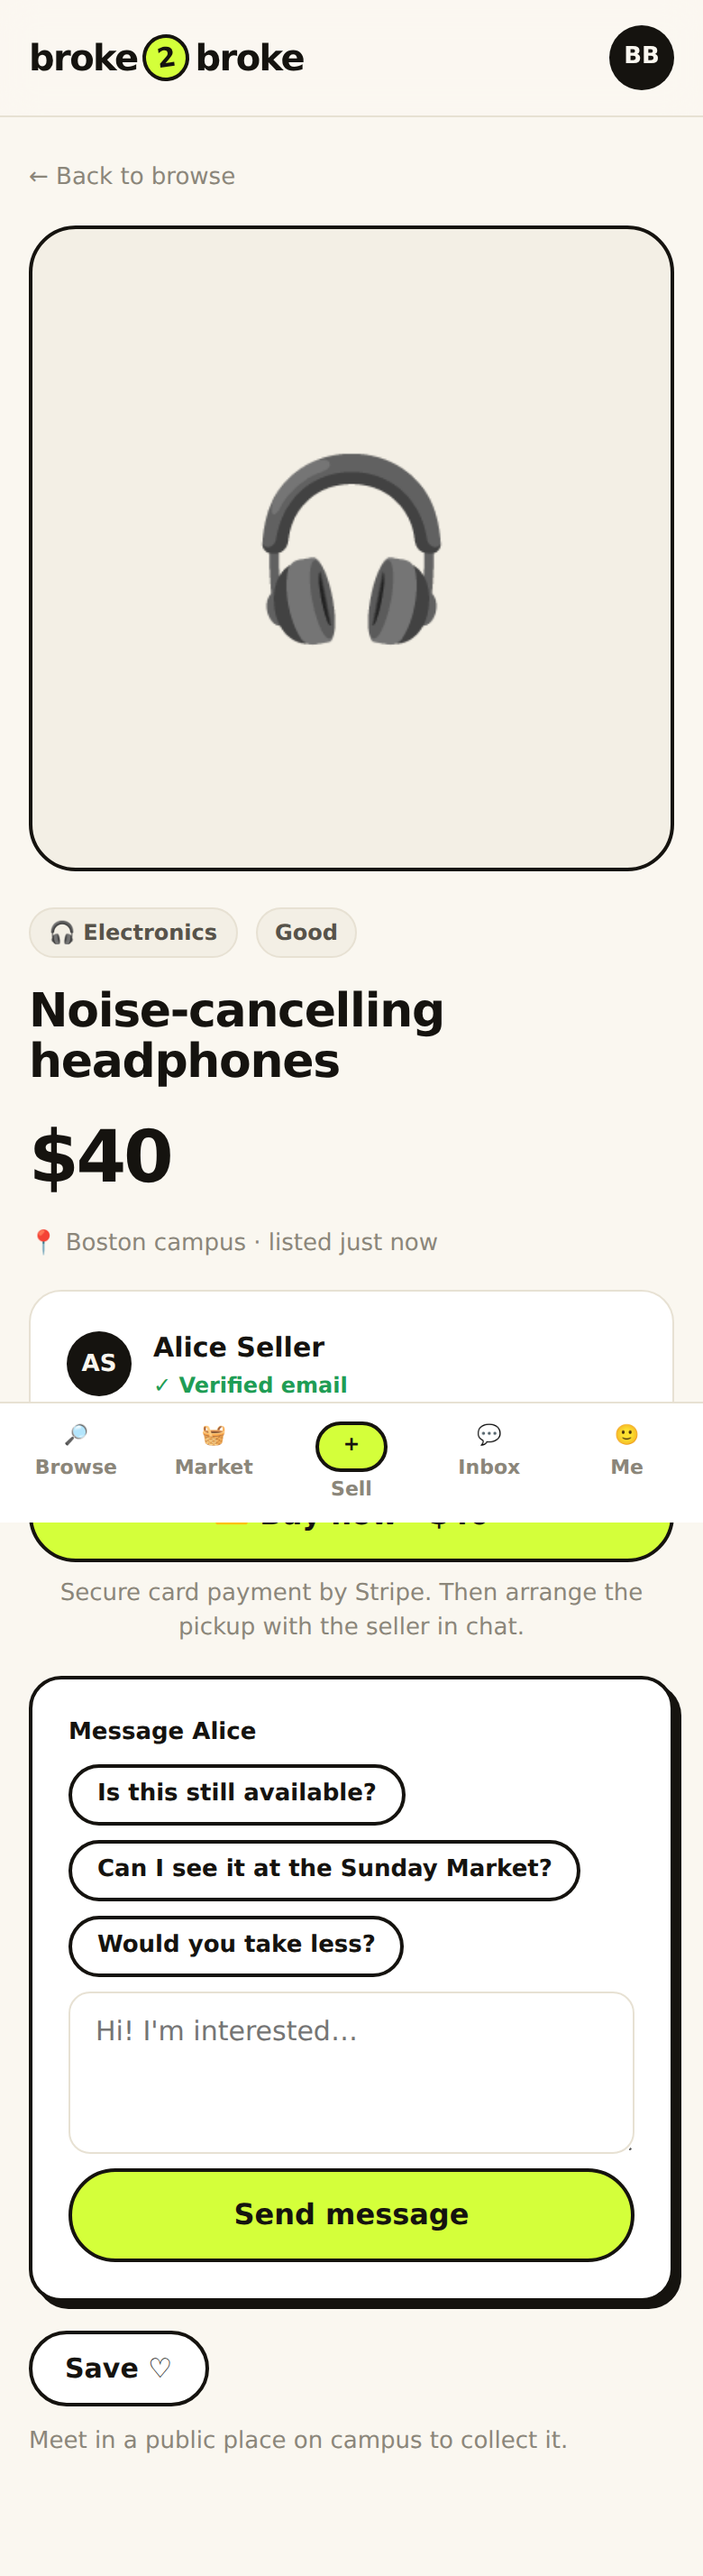
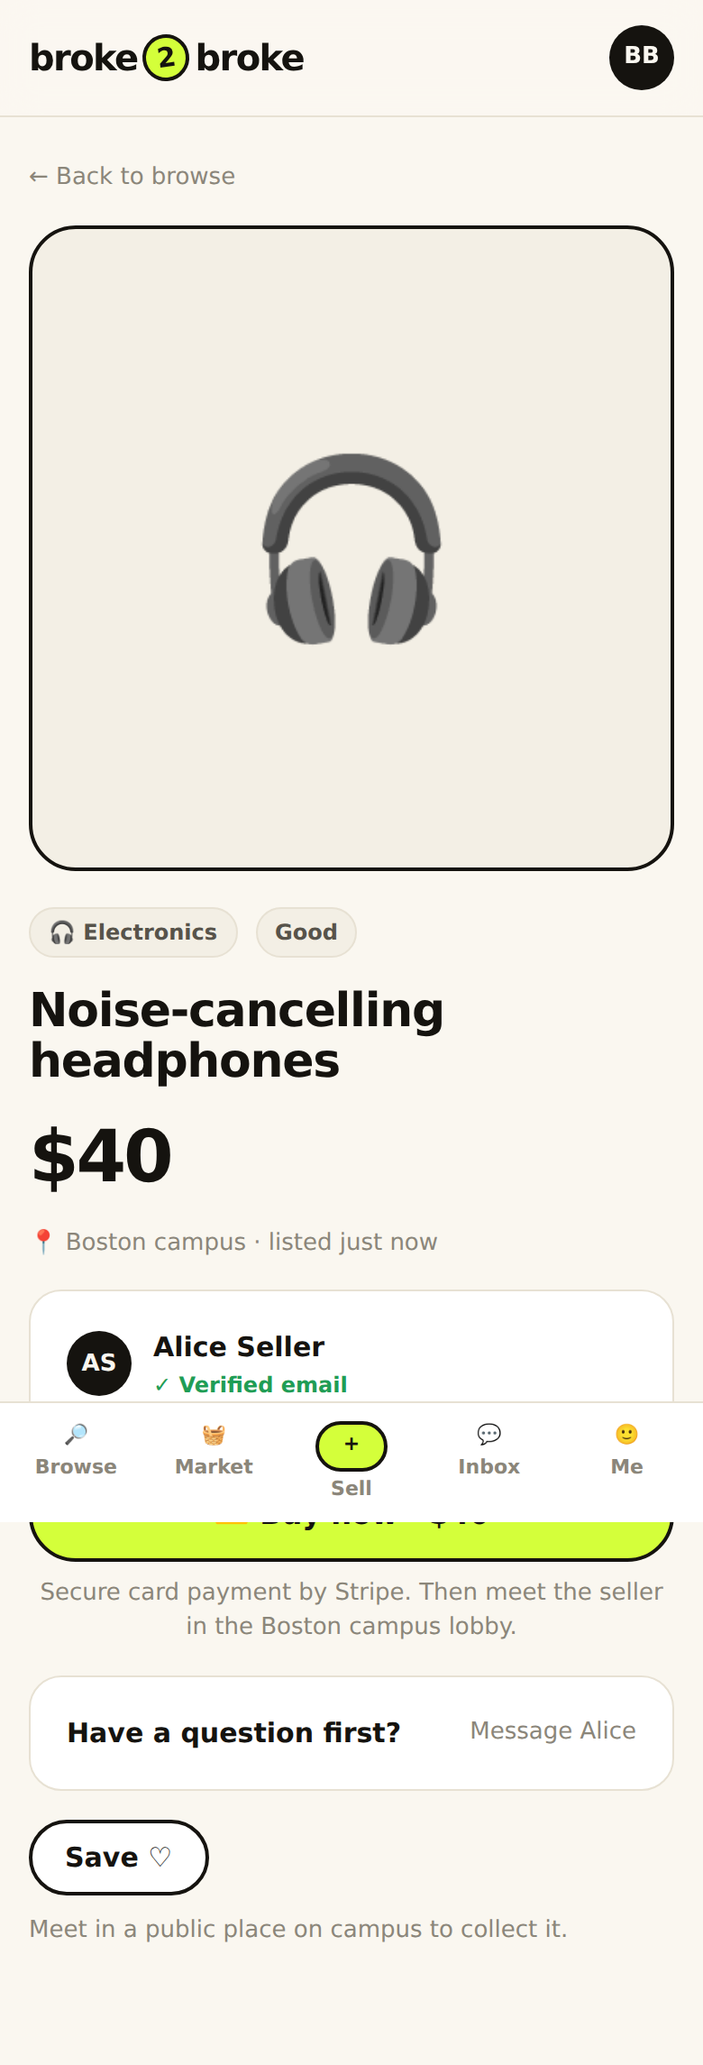
Every item for sale is buyable by card; meet in the campus lobby
With card payments on, publishing an item for sale requires a connected
bank (free and swap items don't), so every sale listing shows Buy now.
After paying, the automatic chat message proposes meeting in the campus
lobby, and both buyer and seller get a notice with an Open chat button.
When Buy now is available, messaging the seller becomes a secondary
"Have a question first?" option.

Claude-Session: https://claude.ai/code/session_011XHDuDWUDbXaasT7E8D34b

diff --git a/src/app/(app)/listings/[id]/page.tsx b/src/app/(app)/listings/[id]/page.tsx
@@ -21,6 +21,7 @@ import {
   isSaved,
   myConversationForListing,
   myPayoutAccount,
+  paidBuyerOf,
   sellerAcceptsCards,
 } from "@/server/queries";
 import { getPayments } from "@/server/stripe";
@@ -56,6 +57,10 @@ export default async function ListingPage({
     isOwner && paymentsOn ? myPayoutAccount(user.id) : Promise.resolve(null),
   ]);
   const canBuyByCard = paymentsOn && acceptsCards && listing.status === "active";
+  // Seller of an item paid by card: link straight to the pickup chat.
+  const paidBuyer = isOwner && listing.status === "sold" ? await paidBuyerOf(listing.id) : null;
+  const pickupChatId = paidBuyer ? await myConversationForListing(listing.id, paidBuyer) : null;
+  const lobby = `${campusName(listing.campus_id)} campus lobby`;
   const sellerName = listing.seller?.full_name || "Student";
   const campus = campusById(listing.campus_id);
   const marketDate = campus ? nextMarketDate(new Date(), campus.timezone) : null;
@@ -71,12 +76,23 @@ export default async function ListingPage({
       )}
       {sp.sold && <div className="alert alert-success">Nice! Marked as sold. Thanks for helping us measure Broke2Broke.</div>}
       {sp.paid && (
-        <div className="alert alert-success">
-          💳 Payment received! We&apos;ve messaged the seller for you. Arrange the pickup in{" "}
-          <Link href="/messages" style={{ textDecoration: "underline" }}>
-            Messages
+        <div className="card card-pop stack">
+          <strong>✅ Paid! Meet {sellerName.split(" ")[0]} in the {lobby}.</strong>
+          <p className="small text-2">
+            We&apos;ve messaged the seller for you. Agree on a time in the chat and collect your item.
+          </p>
+          <Link href={conversationId ? `/messages/${conversationId}` : "/messages"} className="btn btn-primary">
+            💬 Open chat
           </Link>
-          .
+        </div>
+      )}
+      {pickupChatId && (
+        <div className="card card-pop stack">
+          <strong>💳 Sold and paid by card. Meet the buyer in the {lobby}.</strong>
+          <p className="small text-2">Bring the item and agree on a time in the chat. The money is on its way to your bank.</p>
+          <Link href={`/messages/${pickupChatId}`} className="btn btn-primary">
+            💬 Open chat with the buyer
+          </Link>
         </div>
       )}
       {sp.pay_error && (
@@ -154,7 +170,7 @@ export default async function ListingPage({
                     💳 Buy now · {listingPriceLabel(listing)}
                   </SubmitButton>
                   <span className="small muted" style={{ textAlign: "center" }}>
-                    Secure card payment by Stripe. Then arrange the pickup with the seller in chat.
+                    Secure card payment by Stripe. Then meet the seller in the {lobby}.
                   </span>
                 </form>
               )}
@@ -165,6 +181,16 @@ export default async function ListingPage({
                 >
                   💬 Continue the conversation
                 </Link>
+              ) : canBuyByCard ? (
+                <details className="card disclosure">
+                  <summary className="row between">
+                    <strong>Have a question first?</strong>
+                    <span className="small muted">Message {sellerName.split(" ")[0]}</span>
+                  </summary>
+                  <div style={{ marginTop: 14 }}>
+                    <ContactSeller listingId={listing.id} sellerFirstName={sellerName.split(" ")[0]} />
+                  </div>
+                </details>
               ) : (
                 <div className="card card-pop">
                   <ContactSeller listingId={listing.id} sellerFirstName={sellerName.split(" ")[0]} />
@@ -179,7 +205,7 @@ export default async function ListingPage({
                 </span>
               </div>
             </div>
-          ) : (
+          ) : sp.paid ? null : (
             <div className="alert alert-info">This item is no longer available.</div>
           )}
         </div>

diff --git a/src/server/actions/listings.ts b/src/server/actions/listings.ts
@@ -13,6 +13,8 @@ import {
 } from "@/lib/catalog";
 import { requireStudent } from "@/server/auth/session";
 import { createSupabaseServerClient } from "@/server/db/supabase-server";
+import { myPayoutAccount } from "@/server/queries";
+import { getPayments } from "@/server/stripe";
 
 export type ListingFormState = { error?: string; fieldErrors?: Record<string, string> } | undefined;
 
@@ -67,6 +69,18 @@ function readListingForm(formData: FormData) {
   });
 }
 
+/**
+ * With card payments on, every item for sale must be buyable in the app, so
+ * the seller connects their bank first. Free and swap items don't need it.
+ */
+async function sellerNeedsPayouts(userId: string, kind: string): Promise<boolean> {
+  if (kind !== "sell" || !getPayments()) return false;
+  return !(await myPayoutAccount(userId))?.ready;
+}
+
+const NEEDS_PAYOUTS_ERROR =
+  "Connect your bank in “Get paid” before selling, so buyers can pay you by card. Free and swap items don't need it.";
+
 function fieldErrors(error: z.ZodError): Record<string, string> {
   const out: Record<string, string> = {};
   for (const issue of error.issues) {
@@ -81,6 +95,7 @@ export async function createListing(_prev: ListingFormState, formData: FormData)
   const parsed = readListingForm(formData);
   if (!parsed.success) return { error: "Check the highlighted fields.", fieldErrors: fieldErrors(parsed.error) };
   if (parsed.data.photos.some((p) => !p.startsWith(`${user.id}/`))) return { error: "Invalid photo." };
+  if (await sellerNeedsPayouts(user.id, parsed.data.kind)) return { error: NEEDS_PAYOUTS_ERROR };
 
   const supabase = await createSupabaseServerClient();
   const { data, error } = await supabase.from("listings").insert(parsed.data).select("id").single<{ id: string }>();
@@ -98,6 +113,7 @@ export async function updateListing(
   const parsed = readListingForm(formData);
   if (!parsed.success) return { error: "Check the highlighted fields.", fieldErrors: fieldErrors(parsed.error) };
   if (parsed.data.photos.some((p) => !p.startsWith(`${user.id}/`))) return { error: "Invalid photo." };
+  if (await sellerNeedsPayouts(user.id, parsed.data.kind)) return { error: NEEDS_PAYOUTS_ERROR };
 
   const supabase = await createSupabaseServerClient();
   const { data, error } = await supabase

diff --git a/src/app/(app)/listings/new/page.tsx b/src/app/(app)/listings/new/page.tsx
@@ -1,5 +1,9 @@
 import type { Metadata } from "next";
 import { ListingForm } from "@/components/listing-form";
+import { SubmitButton } from "@/components/submit-button";
+import { startPayoutSetup } from "@/server/actions/payments";
+import { myPayoutAccount } from "@/server/queries";
+import { getPayments } from "@/server/stripe";
 import { requireStudent } from "@/server/auth/session";
 import { createListing } from "@/server/actions/listings";
 
@@ -7,6 +11,7 @@ export const metadata: Metadata = { title: "Sell something" };
 
 export default async function NewListingPage() {
   const { user, profile } = await requireStudent();
+  const needsPayouts = getPayments() !== null && !(await myPayoutAccount(user.id))?.ready;
   return (
     <div style={{ maxWidth: 720, margin: "0 auto" }}>
       <div className="page-head">
@@ -15,6 +20,20 @@ export default async function NewListingPage() {
           <h1 className="page-title">Turn clutter into cash 💸</h1>
         </div>
       </div>
+      {needsPayouts && (
+        <div className="card card-pop stack" style={{ marginBottom: 16 }}>
+          <strong>💳 First, connect your bank (3 min, only once)</strong>
+          <p className="small text-2">
+            Everything for sale on Broke2Broke can be bought by card in the app, and the money goes straight to your
+            bank. You can still post free and swap items without it.
+          </p>
+          <form action={startPayoutSetup}>
+            <SubmitButton className="btn btn-primary" pendingLabel="Opening Stripe…">
+              Connect my bank →
+            </SubmitButton>
+          </form>
+        </div>
+      )}
       <ListingForm
         action={createListing}
         userId={user.id}

diff --git a/src/server/queries.ts b/src/server/queries.ts
@@ -325,3 +325,15 @@ export async function myCardSales(userId: string): Promise<Sale[]> {
     .returns<Sale[]>();
   return data ?? [];
 }
+
+/** Buyer who paid for a listing by card (visible to the seller through RLS). */
+export async function paidBuyerOf(listingId: string): Promise<string | null> {
+  const supabase = await createSupabaseServerClient();
+  const { data } = await supabase
+    .from("orders")
+    .select("buyer_id")
+    .eq("listing_id", listingId)
+    .eq("status", "paid")
+    .maybeSingle<{ buyer_id: string | null }>();
+  return data?.buyer_id ?? null;
+}

diff --git a/src/app/(app)/messages/[id]/page.tsx b/src/app/(app)/messages/[id]/page.tsx
@@ -70,7 +70,7 @@ export default async function ConversationPage({ params }: { params: Promise<{ i
       </div>
 
       <p className="small muted" style={{ textAlign: "center" }}>
-        🛡 Meet somewhere public on campus or at the Sunday Market. Never pay before you see the item.
+        🛡 Meet in the campus lobby or at the Sunday Market. Check the item when you collect it.
       </p>
       <Composer conversationId={id} />
     </div>

diff --git a/README.md b/README.md
@@ -69,9 +69,9 @@ Vercel (o similar): importa el repo y añade `NEXT_PUBLIC_SUPABASE_URL` y `NEXT_
 1. Crea una cuenta en [stripe.com](https://stripe.com) y activa **Connect** (Dashboard → Connect → Get started, tipo *Marketplace*).
 2. En Vercel añade `SUPABASE_SECRET_KEY`, `STRIPE_SECRET_KEY` y `STRIPE_PLATFORM_COUNTRY` (ver `.env.example`).
 3. Stripe → Developers → **Webhooks** → *Add endpoint*: `https://TU-WEB/api/stripe/webhook`, eventos `checkout.session.completed` y `checkout.session.async_payment_succeeded`. Copia el *Signing secret* a `STRIPE_WEBHOOK_SECRET` y haz Redeploy.
-4. Cada vendedor pulsa **Get paid** (en *Me*) una vez para conectar su banco. Desde ese momento sus anuncios muestran **Buy now**.
+4. Para publicar algo **en venta** el vendedor conecta su banco una vez (**Get paid**); así todo lo que está a la venta tiene **Buy now**. Lo gratis y los intercambios no lo necesitan.
 
-Flujo: el comprador paga en Stripe Checkout → el webhook marca el anuncio como vendido, registra la venta (`in_app`) y abre un chat para quedar → Stripe transfiere el 90% al vendedor y el 10% queda en tu cuenta. Si dos personas pagan el mismo artículo, al segundo se le devuelve el dinero automáticamente.
+Flujo: el comprador paga en Stripe Checkout → el webhook marca el anuncio como vendido, registra la venta (`in_app`) y abre un chat proponiendo verse en el lobby del campus → Stripe transfiere el 90% al vendedor y el 10% queda en tu cuenta. Si dos personas pagan el mismo artículo, al segundo se le devuelve el dinero automáticamente.
 
 
 
